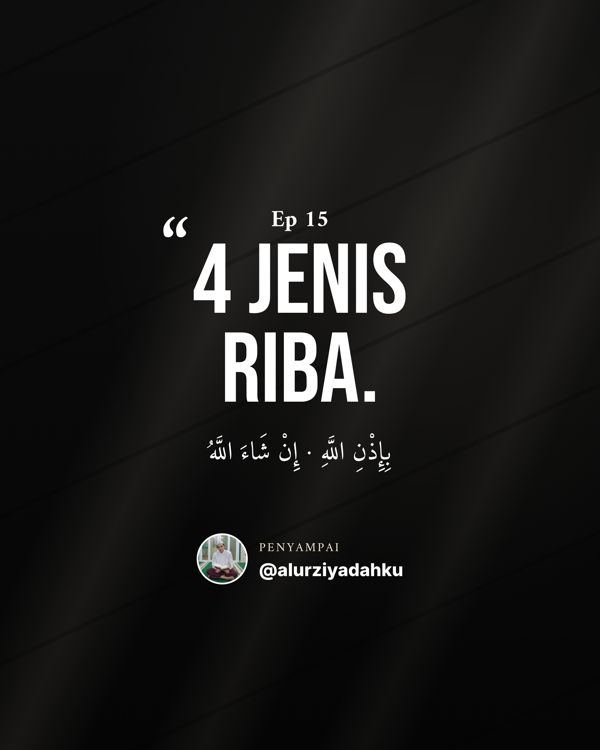
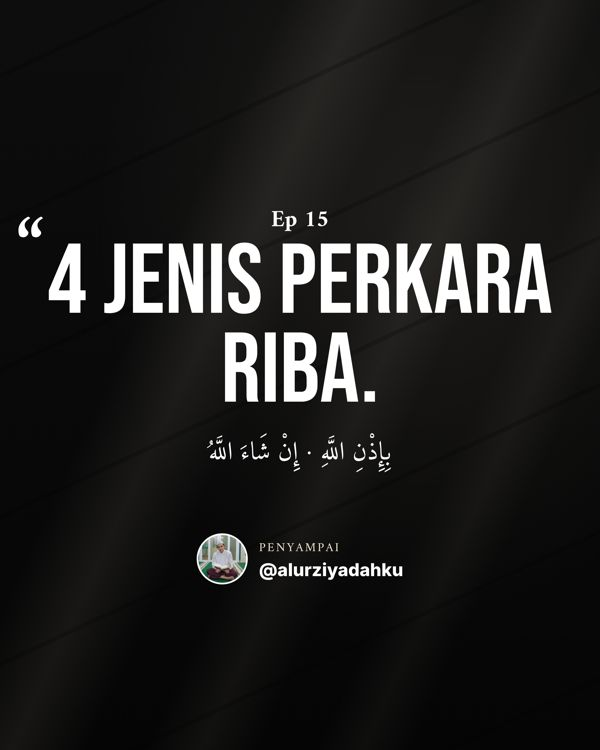
Ep15: judul jadi "4 Jenis Perkara Riba" (cover, post IG, caption v2, katalog)
Claude-Session: https://claude.ai/code/session_01WaGvaQ8AToXUR11At2caAy

Changed region(s): [[0.06, 0.276, 0.93, 0.4293], [0.03, 0.276, 0.09, 0.3373]]

diff --git a/katalog/index.html b/katalog/index.html
@@ -116,7 +116,7 @@ a.alt{color:var(--y);font:700 13px var(--mono);text-decoration:underline;text-un
 <div class="toast" id="toast" hidden>Tersalin ✓</div>
 
 <script>
-const EP = [{"no": 1, "topik": "Hurmatul Qur'an", "ar": "حُرْمَةُ الْقُرْآنِ", "judul": "Kehormatan Al-Qur'an | Sebaik-baik Kalian yang Belajar & Mengajarkan Al-Qur'an | Mengenal Al-Qur'an Ep1", "caption": "Kehormatan Al-Qur'an · Hurmatul Qur'an 📖✨\nSeberapa mulia Al-Qur'an di mata kita? Ini dalilnya… 👇\n\n✅ Sebaik-baik kalian: yang belajar & mengajarkan Al-Qur'an (HR. al-Bukhari 5027)\n✅ Al-Qur'an adalah jamuan Allah (Ibnu Mas'ud)\n✅ Mulut kita adalah jalan Al-Qur'an (atsar Yazid bin Abi Malik)\n✅ Kehormatan & adab terhadap Al-Qur'an (Tafsir al-Qurthubi)\n\nSemoga Allah jadikan kita ahli Al-Qur'an. Ketik AAMIIN 🤲\n💾 Simpan & 📤 bagikan ke keluarga.\n🔔 Follow @alurziyadahku untuk seri Mengenal Al-Qur'an.\n\n#fyp #islam #kajianislam #dakwahislam #mengenalalquran", "tags": "", "draft": true, "yt": "img/ep01_yt.jpg", "reel": "img/ep01_reel.jpg", "ig": "img/ep01_ig.jpg"}, {"no": 2, "topik": "16 Adab Al-Qur'an", "ar": "حُرْمَةُ الْقُرْآنِ", "judul": "16 Adab Membaca Al-Qur'an yang Sering Dilanggar Tanpa Kita Sadari | Hurmatul Qur'an #2", "caption": "Kamu pernah baca Al-Qur'an sambil menguap? Atau sambil ngobrol? 😶\n\nTernyata para ulama menyebutkan 16 KEHORMATAN Al-Qur'an yang harus kita jaga. Banyak di antaranya kita langgar tanpa sadar.\n\n✔ menghadap kiblat\n✔ berhenti saat menguap\n✔ tidak memotong bacaan untuk bercakap\n✔ mushaf tidak diletakkan di lantai\n✔ tidak menafsir dengan pendapat sendiri\n…dan 11 lainnya di video lengkap 🎥\n\n📚 Rujukan: Muqaddimah Tafsir Al-Qurthubi\n\nNomor berapa yang paling sering kamu lupa? Tulis di komentar 👇\nSimpan & kirim ke orang yang kamu sayangi 🤍\n\n#HurmatulQuran #AdabAlQuran #AlQuran #KajianIslam #BelajarAlQuran #TadabburQuran #NgajiOnline #DakwahIslam #IlmuAgama #TafsirQuran #MuslimIndonesia #MuslimMalaysia #ReelsIslami #FYP #Islam", "tags": "", "draft": false, "yt": "img/ep02_yt.jpg", "reel": "img/ep02_reel.jpg", "ig": "img/ep02_ig.jpg", "video": "https://github.com/oligarchy-pixel/Al-Qur-an/raw/arsip-video/Ep02.mp4", "videoPage": "https://github.com/oligarchy-pixel/Al-Qur-an/blob/arsip-video/Ep02.mp4", "mb": 90}, {"no": 3, "topik": "Turunnya Al-Qur'an", "ar": "نُزُولُ الْقُرْآنِ", "judul": "Turunnya Al-Qur'an: dari Lauh Mahfuzh sampai Mushaf di Tanganmu", "caption": "Al-Qur'an yang kita baca hari ini dulunya tidak bertitik dan tidak berbaris. 😳\n\nDi zaman Rasulullah ﷺ, Al-Qur'an belum dibukukan. Ia tersimpan di dada para sahabat, ditulis di batu, daun, dan kulit unta.\n\nLalu bagaimana bisa sampai di tangan kita dalam bentuk mushaf yang rapi?\n\n📜 Turun sekaligus di malam Lailatul Qadr\n📜 Diturunkan bertahap ± 23 tahun\n📜 Dihimpun oleh Zaid bin Tsabit\n📜 Disusun di masa Khalifah 'Utsman bin 'Affan\n📜 Diberi titik & baris di masa Khalifah 'Abdul Malik bin Marwan\n📜 Dan rahasia kenapa Al-Fatihah disebut *Ummul Qur'an*\n\nTonton sampai habis. Bagian terakhirnya akan membuatmu membaca Al-Fatihah dengan rasa yang berbeda. 🤍\n\nTulis di komentar: sudah berapa kali kamu khatam Al-Qur'an? 👇\nBagikan ke satu orang yang kamu sayang, semoga jadi pahala jariyah.\n\n#AlQuran #SejarahIslam #NuzululQuran #KajianIslam #FaktaIslam", "tags": "", "draft": false, "yt": "img/ep03_yt.jpg", "reel": "img/ep03_reel.jpg", "ig": "img/ep03_ig.jpg", "video": "https://github.com/oligarchy-pixel/Al-Qur-an/raw/arsip-video/Ep03.mp4", "videoPage": "https://github.com/oligarchy-pixel/Al-Qur-an/blob/arsip-video/Ep03.mp4", "mb": 84}, {"no": 4, "topik": "Rahasia Bismillah", "ar": "بِسْمِ اللَّهِ", "judul": "Bismillah Dibaca Nyaring atau Pelan? Ternyata 4 Mazhab Berbeda!", "caption": "Pernah salat di belakang imam yang tidak membaca Bismillah dengan nyaring? 🤔\nJangan langsung menyalahkan. Ternyata 4 mazhab punya pendapat yang berbeda. 👇\n\n📌 Imam asy-Syafi'i: Bismillah ayat Al-Fatihah, dibaca nyaring\n📌 Imam Malik: tidak dibaca dalam salat\n📌 Imam Abu Hanifah: dibaca pelan\n📌 Imam Ahmad: ayat Al-Fatihah, tapi dibaca pelan\n\nDan ternyata Al-Fatihah punya 156 huruf. Kurang sehuruf saja, bacaannya tidak sah. 😳\n\nTonton sampai habis. Di akhir video ada keutamaan Bismillah yang membuatmu tidak akan lupa membacanya lagi. 🤍\n\n💬 Kamu ikut mazhab apa? Tulis di komentar\n🔁 Bagikan ke teman yang sering lupa baca Bismillah\n\n#Bismillah #AlFatihah #FiqihSalat #KajianIslam #FaktaIslam", "tags": "", "draft": false, "yt": "img/ep04_yt.jpg", "reel": "img/ep04_reel.jpg", "ig": "img/ep04_ig.jpg", "video": "https://github.com/oligarchy-pixel/Al-Qur-an/raw/arsip-video/Ep04.mp4", "videoPage": "https://github.com/oligarchy-pixel/Al-Qur-an/blob/arsip-video/Ep04.mp4", "mb": 81}, {"no": 5, "topik": "Hukum Bismillah", "ar": "بِسْمِ اللَّهِ", "judul": "Baca Bismillah Bisa HARAM?! Ini 4 Hukumnya & Doa yang Benar di 5 Keadaan", "caption": "Ternyata membaca Bismillah bisa HARAM?! 😳\n\nTidak semua hal baik dimulai dengan \"Bismillahirrahmanirrahim\" lengkap. Ada lafaz dan doa khusus untuk setiap keadaan 👇\n\n✅ Wajib: dalam salat, saat membaca Al-Fatihah\n✅ Sunah: wudu, mandi, makan, minum\n⚠ Makruh: pada perkara yang tidak mulia\n❌ Haram: sebelum berbuat dosa, malah menambah dosa\n\n🚽 Masuk jamban • 💑 Suami istri • 🚗 Naik kendaraan • 🛏 Tidur • 👕 Memakai pakaian\nSetiap keadaan punya doa bismillahnya sendiri. Tonton sampai habis!\n\n💬 Doa mana yang baru kamu tahu? Tulis di komentar\n🔁 Bagikan, semoga jadi pahala jariyah 🤍\n\n#Bismillah #DoaHarian #HukumIslam #KajianIslam #FaktaIslam", "tags": "", "draft": false, "yt": "img/ep05_yt.jpg", "reel": "img/ep05_reel.jpg", "ig": "img/ep05_ig.jpg", "video": "https://github.com/oligarchy-pixel/Al-Qur-an/raw/arsip-video/Ep05.mp4", "videoPage": "https://github.com/oligarchy-pixel/Al-Qur-an/blob/arsip-video/Ep05.mp4", "mb": 56}, {"no": 6, "topik": "Makna Bismillah", "ar": "مَعَانِي الْبَسْمَلَةِ", "judul": "Kenapa \"BISMILLAH\", Bukan \"BILLAH\"? Ternyata Ini Rahasianya", "caption": "Setiap hari kamu ucap Bismillah…\ntapi tahukah kenapa \"dengan NAMA Allah\", bukan langsung \"dengan Allah\"? 🤔\n\nTernyata ada 6 makna tersembunyi di dalamnya.\nDan 19 hurufnya disebut melindungi dari 19 Malaikat penjaga neraka. 😳\n\nTonton sampai habis, kamu tidak akan mengucap Bismillah dengan cara yang sama lagi. 🤍\n\n💬 Tulis \"Bismillah\" di komentar\n🔁 Bagikan, semoga jadi pahala jariyah\n\n#Bismillah #MaknaBismillah #KajianIslam #FaktaIslam #MengenalAlQuran", "tags": "", "draft": false, "yt": "img/ep06_yt.jpg", "reel": "img/ep06_reel.jpg", "ig": "img/ep06_ig.jpg", "video": "https://github.com/oligarchy-pixel/Al-Qur-an/raw/arsip-video/Ep06.mp4", "videoPage": "https://github.com/oligarchy-pixel/Al-Qur-an/blob/arsip-video/Ep06.mp4", "mb": 69}, {"no": 7, "topik": "Rahasia Hamdalah", "ar": "الْحَمْدُ لِلَّهِ", "judul": "Ucapan Alhamdulillah Bisa HARAM?! Ternyata Ada Aturannya", "caption": "Hati-hati mengucap Alhamdulillah… ternyata bisa jadi DOSA. 😳\n\nAda ulama yang beristighfar 30 tahun hanya karena satu ucapan \"Alhamdulillah\" saat pasar terbakar.\n\nDan tahukah kamu: Alhamdulillah ada 8 huruf, pintu surga pun ada 8. 🤍\n\nTonton sampai habis, kamu akan mengucap Alhamdulillah dengan cara yang berbeda.\n\n💬 Tulis \"Alhamdulillah ala kulli hal\" di komentar\n🔁 Bagikan, semoga jadi pahala jariyah\n\n#Alhamdulillah #DoaHarian #KajianIslam #FaktaIslam #MengenalAlQuran", "tags": "", "draft": false, "yt": "img/ep07_yt.jpg", "reel": "img/ep07_reel.jpg", "ig": "img/ep07_ig.jpg", "video": "https://github.com/oligarchy-pixel/Al-Qur-an/raw/arsip-video/Ep07.mp4", "videoPage": "https://github.com/oligarchy-pixel/Al-Qur-an/blob/arsip-video/Ep07.mp4", "mb": 76}, {"no": 8, "topik": "Rahasia Ar-Rahman", "ar": "الرَّحْمَٰنِ الرَّحِيمِ", "judul": "Ar-Rahman Ar-Rahim Bukan Sekadar \"Pengasih Penyayang\"! Ini Makna Aslinya", "caption": "Kamu pikir Allah hanya Maha Pengasih? Hati-hati… bisa tertipu. 😳\n\nSetelah \"Ar-Rahman Ar-Rahim\", Allah langsung menyebut \"Maliki yaumiddin\", Pemilik hari pembalasan.\nHarap dan takut harus seimbang. 🤍\n\nPlus: 4 kunci supaya ibadahmu sah, diterima, dan tidak gugur.\nTonton sampai habis!\n\n💬 Tulis \"Ya Rahman Ya Rahim\" di komentar\n🔁 Bagikan, semoga jadi pahala jariyah\n\n#ArRahmanArRahim #AlFatihah #KajianIslam #FaktaIslam #MengenalAlQuran", "tags": "", "draft": false, "yt": "img/ep08_yt.jpg", "reel": "img/ep08_reel.jpg", "ig": "img/ep08_ig.jpg", "video": "https://github.com/oligarchy-pixel/Al-Qur-an/raw/arsip-video/Ep08.mp4", "videoPage": "https://github.com/oligarchy-pixel/Al-Qur-an/blob/arsip-video/Ep08.mp4", "mb": 58}, {"no": 9, "topik": "Perbanyaklah Bertaubat", "ar": "التَّوْبَةُ", "judul": "Ayam Sudah Berkokok, Engkau Masih Tidur? | Rahasia Waktu Sahur untuk Bertaubat — Mengenal Al-Qur'an Ep.9", "caption": "Ayam jantan berkokok di waktu sahur… karena ia melihat malaikat.\nLalu kita? Masih terlelap. 😴\n\nAllah memuji orang-orang yang beristighfar di waktu sahur:\nوَبِالْأَسْحَارِ هُمْ يَسْتَغْفِرُونَ (QS. Adz-Dzariyat: 18)\n\nDi episode 9 ini kita bedah:\n🌙 Tahajjud: tak harus ratusan rakaat, dua rakaat pun sudah cukup\n🕰 Kenapa waktu sahur jadi waktu terbaik untuk bertaubat\n🐓 Hadis ayam berkokok (Bukhari 3303 · Muslim 2729)\n🌬 \"Angin sahur\" yang membawa zikir & istighfar (Sufyan ats-Tsauri)\n⚖ Mengaku cinta Allah, tapi mana buktinya?\n📜 Ibadah harus sesuai aturan syarak: mulailah dari dirimu sendiri\n\nSemua sumber kami tunjukkan langsung di layar: kitab, jilid, halaman, dan derajat hadisnya.\n\nMalam ini, coba bangun sebelum Subuh. Dua rakaat. Satu istighfar. Allah sedang memanggil.\n\n💬 Tulis \"أَسْتَغْفِرُ اللَّهَ\" di kolom komentar kalau kamu mau mulai malam ini.\n🔁 Bagikan ke satu orang yang ingin kamu ajak bertaubat bersama.\n🔔 Subscribe & follow @alurziyadahku untuk seri Mengenal Al-Qur'an berikutnya.\n\n#taubat #istighfar #tahajjud #kajianislam #mengenalalquran", "tags": "", "draft": false, "yt": "img/ep09_yt.jpg", "reel": "img/ep09_reel.jpg", "ig": "img/ep09_ig.jpg", "video": "https://github.com/oligarchy-pixel/Al-Qur-an/raw/arsip-video/Ep09.mp4", "videoPage": "https://github.com/oligarchy-pixel/Al-Qur-an/blob/arsip-video/Ep09.mp4", "mb": 64}, {"no": 10, "topik": "Minta Pertolongan", "ar": "إِيَّاكَ نَسْتَعِينُ", "judul": "Semangat Ibadah Cuma di Awal? Ini Penyebabnya | إِيَّاكَ نَسْتَعِينُ — Mengenal Al-Qur'an Ep.10", "caption": "Pernah semangat salat malam 3 hari… lalu berhenti? 😔\nPernah niat khatam Al-Qur'an… tapi cuma sampai juz 2?\n\nBukan karena kamu lemah. Ibadah itu memang sulit dan rumit, dan kita tidak akan sanggup tanpa pertolongan Allah.\n\nإِيَّاكَ نَعْبُدُ وَإِيَّاكَ نَسْتَعِينُ\n\"Hanya kepada-Mu kami menyembah, dan hanya kepada-Mu kami memohon pertolongan.\"\n\nDi video ini:\n📚 Ibadah sah dengan ilmu, dan ilmu didapat dengan doa + belajar yang beradab\n🤲 Mau ibadah diterima? Bertaubat dulu sebelum beribadah\n💧 Amal yang paling dicintai Allah: yang rutin walau sedikit (HR. Bukhari & Muslim)\n🏪 Azan berkumandang: tutup toko, atau terus melayani pembeli?\n🔥 Akan datang masa dunia \"memakan\" iman\n🛤 4 jalan agar istiqamah sampai akhir hayat\n\nPilih yang abadi. Tinggalkan yang fana.\n\n👇 Jujur di komentar: ibadah apa yang paling sulit kamu jaga rutin?\n💬 Atau tulis \"إِيَّاكَ نَسْتَعِينُ\" sebagai doa agar kita semua diberi istiqamah.\n🔁 Kirim ke 1 sahabat yang sedang berjuang menjaga ibadahnya. Bisa jadi ini yang dia butuhkan hari ini.\n🔔 Follow @alurziyadahku. Seri Mengenal Al-Qur'an berlanjut setiap episode.\n\n#istiqamah #alfatihah #kajianislam #nasihatislami #mengenalalquran", "tags": "", "draft": false, "yt": "img/ep10_yt.jpg", "reel": "img/ep10_reel.jpg", "ig": "img/ep10_ig.jpg", "video": "https://github.com/oligarchy-pixel/Al-Qur-an/raw/arsip-video/Ep10.mp4", "videoPage": "https://github.com/oligarchy-pixel/Al-Qur-an/blob/arsip-video/Ep10.mp4", "mb": 66}, {"no": 11, "topik": "Musuh di Dalam Diri", "ar": "النَّفْسُ", "judul": "Musuh Paling Berbahaya Bukan di Luar, Tapi di Dalam Dirimu | Mengenal Al-Qur'an Ep.11", "caption": "Kita sibuk waspada pada orang yang dengki, orang yang membenci, bahkan pada syaitan…\ntapi lupa ada satu musuh yang tinggal di dalam dada kita sendiri. 😔\n\nSyaitan mundur saat dibacakan zikir.\nNafsu? Ia bagian dari dirimu, dan tidak semudah itu diusir.\n\nDi episode 11 ini kita bedah:\n🔥 Kenapa nafsu disebut musuh yang paling sulit dididik & diobati\n🎁 14 nikmat Allah yang sering kita lupakan\n⚔ Melatih nafsu seperti prajurit bersiap perang\n🖐 5 kesulitan orang beriman: pendengki, munafik, kafir, syaitan, dan nafsu\n👁 Mata cinta vs mata benci: kenapa kita buta pada aib sendiri\n⚠ Jebakan setelah taubat: merasa lebih baik dari orang lain\n\nMelawan nafsu adalah jihad yang paling besar.\nإِيَّاكَ نَعْبُدُ وَإِيَّاكَ نَسْتَعِينُ\n\n👇 Jujur di komentar: nafsu apa yang paling sulit kamu lawan?\n🔁 Kirim ke 1 sahabat yang sedang berjuang memperbaiki diri.\n🔔 Follow @alurziyadahku. Seri Mengenal Al-Qur'an berlanjut setiap episode.\n\n#melawannafsu #tazkiyatunnafs #kajianislam #nasihatislami #mengenalalquran", "tags": "", "draft": false, "yt": "img/ep11_yt.jpg", "reel": "img/ep11_reel.jpg", "ig": "img/ep11_ig.jpg", "video": "https://github.com/oligarchy-pixel/Al-Qur-an/raw/arsip-video/Ep11.mp4", "videoPage": "https://github.com/oligarchy-pixel/Al-Qur-an/blob/arsip-video/Ep11.mp4", "mb": 74}, {"no": 12, "topik": "Minta yang Pasti Baik", "ar": "اهْدِنَا الصِّرَاطَ", "judul": "Jangan Asal Minta Rezeki & Jabatan! Ini Doa yang Pasti Baik | اهْدِنَا الصِّرَاطَ الْمُسْتَقِيمَ — Mengenal Al-Qur'an Ep.12", "caption": "Pernah berdoa minta rezeki lancar, jabatan, jodoh, atau anak…\ntapi pernahkah kita bertanya: apakah itu pasti baik untuk kita? 🤔\n\nAllah sendiri mengajarkan permintaan yang paling utama:\nاهْدِنَا الصِّرَاطَ الْمُسْتَقِيمَ\n\"Tunjukilah kami jalan yang lurus.\"\n\nDi episode 12 ini kita bedah:\n🛣 Kenapa jalan yang lurus adalah permintaan nomor satu\n💰 Harta melimpah yang justru membuat lupa Allah\n🗳 Doa minta menang pemilihan, sehat, jodoh & anak: pakai kunci إِنْ كَانَ خَيْرًا لِي\n💧 Ilmu kita setetes dibanding ilmu Allah\n🔢 73 golongan, hanya satu yang di jalan lurus (HR. Abu Dawud, at-Tirmidzi, Ibnu Majah)\n🫀 Doa dari hati yang lalai tidak dikabulkan (HR. at-Tirmidzi)\n🤲 Ibadah dulu, baru berdoa (QS. Al-Baqarah 186)\n\nMintalah yang pasti baik. Yang belum pasti, serahkan dengan syarat: \"jika itu baik untukku\".\n\n👇 Jujur di komentar: doa apa yang paling sering kamu minta selama ini?\n🔁 Kirim ke 1 sahabat yang sedang menunggu doanya dikabulkan.\n🔔 Follow @alurziyadahku. Seri Mengenal Al-Qur'an berlanjut setiap episode.\n\n#adabberdoa #alfatihah #kajianislam #nasihatislami #mengenalalquran", "tags": "", "draft": false, "yt": "img/ep12_yt.jpg", "reel": "img/ep12_reel.jpg", "ig": "img/ep12_ig.jpg", "video": "https://github.com/oligarchy-pixel/Al-Qur-an/raw/arsip-video/Ep12.mp4", "videoPage": "https://github.com/oligarchy-pixel/Al-Qur-an/blob/arsip-video/Ep12.mp4", "mb": 74}, {"no": 13, "topik": "Rahasia Sapi Betina", "ar": "سُورَةُ الْبَقَرَةِ", "judul": "Kisah Sapi Betina Nabi Musa & Keutamaan Surah Al-Baqarah | Arti Alif Lam Mim | Tafsir Al-Baqarah Ayat 1-2", "caption": "Kisah sapi betina Nabi Musa & keutamaan Surah Al-Baqarah 🐄📖\nKenapa surah terpanjang di Al-Qur'an dinamai \"sapi betina\"? Ternyata ada kisah mayat yang hidup kembali dan menyebut pembunuhnya…\n\nDi video ini:\n✅ Keutamaan Surah Al-Baqarah: rumah tidak dimasuki syaitan (HR. at-Tirmidzi 2877)\n✅ Kisah Bani Israil & sapi kuning di zaman Nabi Musa\n✅ Arti Alif Lam Mim menurut ulama\n✅ Tafsir Al-Baqarah ayat 1-2: ذَٰلِكَ الْكِتَابُ لَا رَيْبَ فِيهِ\n✅ Bukti Al-Qur'an dari Allah: tantangan & ramalan Romawi\n\n💬 Tulis \"AAMIIN\" agar rumah kita dijaga Allah\n📌 Simpan & bagikan ke keluarga\n\n#fyp #islam #kajianislam #kisahislami #mengenalalquran", "tags": "surah al baqarah, keutamaan surah al baqarah, kisah sapi betina, kisah nabi musa, arti alif lam mim, tafsir al baqarah ayat 1-2, kajian islam, ngaji online", "draft": false, "yt": "img/ep13_yt.jpg", "reel": "img/ep13_reel.jpg", "ig": "img/ep13_ig.jpg", "video": "https://github.com/oligarchy-pixel/Al-Qur-an/raw/arsip-video/Ep13.mp4", "videoPage": "https://github.com/oligarchy-pixel/Al-Qur-an/blob/arsip-video/Ep13.mp4", "mb": 74}, {"no": 14, "topik": "Petunjuk Takwa Sehari-hari", "ar": "هُدًى لِلْمُتَّقِينَ", "judul": "Hukum Cukur Alis dalam Islam | Adab Makan, Pakaian & Memilih Jodoh Menurut Al-Qur'an | Mengenal Al-Qur'an Ep14", "caption": "Hukum cukur alis, makan berlebihan & memilih jodoh menurut Al-Qur'an 📖✨\nTernyata Al-Qur'an mengatur hidupmu dari piring makan sampai rumah tangga… sudah tahu? 👇\n\n✅ Makan & minum boleh, tapi jangan melampaui batas (QS. Al-A'raf: 31)\n✅ Jilbab = kain yang menutupi seluruh tubuh (QS. Al-Ahzab: 59)\n✅ Berhias boleh, asal tidak mengubah ciptaan Allah (QS. An-Nisa: 119 · HR. Bukhari & Muslim)\n✅ Pilih pasangan: IMAN dulu, baru yang lain (QS. Al-Baqarah: 221)\n✅ Hak suami & istri, dan cara bertahap menghadapi nusyuz (QS. Al-Baqarah: 228 · An-Nisa: 34)\n\nSemoga Allah jadikan kita golongan muttaqin. Ketik AAMIIN 🤲\n💾 Simpan video ini & 📤 bagikan ke pasangan / calon pasanganmu.\n🔔 Follow @alurziyadahku untuk episode berikutnya.\n\n#fyp #islam #kajianislam #dakwahislam #mengenalalquran", "tags": "hukum cukur alis, makan berlebihan dalam islam, adab berpakaian muslimah, memilih jodoh dalam islam, hak suami istri, nusyuz, tafsir al-quran, kajian islam", "draft": false, "yt": "img/ep14_yt.jpg", "reel": "img/ep14_reel.jpg", "ig": "img/ep14_ig.jpg", "video": "https://github.com/oligarchy-pixel/Al-Qur-an/raw/arsip-video/Ep14.mp4", "videoPage": "https://github.com/oligarchy-pixel/Al-Qur-an/blob/arsip-video/Ep14.mp4", "mb": 71}, {"no": 15, "topik": "4 Jenis Riba", "ar": "وَحَرَّمَ الرِّبَا", "judul": "4 Jenis Riba dalam Islam & Contohnya | Hukum Khulu' Istri Minta Cerai | Adab Bermasyarakat Menurut Al-Qur'an | Mengenal Al-Qur'an Ep15", "caption": "4 jenis riba dalam Islam & hukum istri minta cerai (khulu') 💸📖\nTukar beras 10 kg dengan 8 kg ternyata termasuk RIBA… sudah tahu? 👇\n\n✅ Istri nusyuz: suami bertahap, nasihat → pisah tidur → isyarat → solusi (QS. An-Nisa: 34)\n✅ Suami bermasalah: istri boleh mengajukan khulu' ke hakim, mahar dikembalikan\n✅ Minta cerai tanpa alasan → haram mencium bau surga (HR. Abu Dawud dari Tsauban)\n✅ Jangan mengolok-olok, buruk sangka & ghibah (QS. Al-Hujurat: 11–12)\n✅ Allah halalkan jual beli, haramkan riba (QS. Al-Baqarah: 275–276)\n✅ 4 jenis riba: fadl, nasa', yad, qardh + contohnya\n\nSemoga Allah jauhkan rezeki kita dari riba. Ketik AAMIIN 🤲\n💾 Simpan video ini & 📤 bagikan ke keluarga dan rekan usaha.\n🔔 Follow @alurziyadahku untuk episode berikutnya.\n\n#fyp #islam #kajianislam #dakwahislam #mengenalalquran", "tags": "jenis jenis riba, riba dalam islam, contoh riba, hukum khulu, istri minta cerai, nusyuz, adab bermasyarakat, kajian islam", "draft": false, "yt": "img/ep15_yt.jpg", "reel": "img/ep15_reel.jpg", "ig": "img/ep15_ig.jpg", "video": "https://github.com/oligarchy-pixel/Al-Qur-an/raw/arsip-video/Ep15.mp4", "videoPage": "https://github.com/oligarchy-pixel/Al-Qur-an/blob/arsip-video/Ep15.mp4", "mb": 76}];
+const EP = [{"no": 1, "topik": "Hurmatul Qur'an", "ar": "حُرْمَةُ الْقُرْآنِ", "judul": "Kehormatan Al-Qur'an | Sebaik-baik Kalian yang Belajar & Mengajarkan Al-Qur'an | Mengenal Al-Qur'an Ep1", "caption": "Kehormatan Al-Qur'an · Hurmatul Qur'an 📖✨\nSeberapa mulia Al-Qur'an di mata kita? Ini dalilnya… 👇\n\n✅ Sebaik-baik kalian: yang belajar & mengajarkan Al-Qur'an (HR. al-Bukhari 5027)\n✅ Al-Qur'an adalah jamuan Allah (Ibnu Mas'ud)\n✅ Mulut kita adalah jalan Al-Qur'an (atsar Yazid bin Abi Malik)\n✅ Kehormatan & adab terhadap Al-Qur'an (Tafsir al-Qurthubi)\n\nSemoga Allah jadikan kita ahli Al-Qur'an. Ketik AAMIIN 🤲\n💾 Simpan & 📤 bagikan ke keluarga.\n🔔 Follow @alurziyadahku untuk seri Mengenal Al-Qur'an.\n\n#fyp #islam #kajianislam #dakwahislam #mengenalalquran", "tags": "", "draft": true, "yt": "img/ep01_yt.jpg", "reel": "img/ep01_reel.jpg", "ig": "img/ep01_ig.jpg"}, {"no": 2, "topik": "16 Adab Al-Qur'an", "ar": "حُرْمَةُ الْقُرْآنِ", "judul": "16 Adab Membaca Al-Qur'an yang Sering Dilanggar Tanpa Kita Sadari | Hurmatul Qur'an #2", "caption": "Kamu pernah baca Al-Qur'an sambil menguap? Atau sambil ngobrol? 😶\n\nTernyata para ulama menyebutkan 16 KEHORMATAN Al-Qur'an yang harus kita jaga. Banyak di antaranya kita langgar tanpa sadar.\n\n✔ menghadap kiblat\n✔ berhenti saat menguap\n✔ tidak memotong bacaan untuk bercakap\n✔ mushaf tidak diletakkan di lantai\n✔ tidak menafsir dengan pendapat sendiri\n…dan 11 lainnya di video lengkap 🎥\n\n📚 Rujukan: Muqaddimah Tafsir Al-Qurthubi\n\nNomor berapa yang paling sering kamu lupa? Tulis di komentar 👇\nSimpan & kirim ke orang yang kamu sayangi 🤍\n\n#HurmatulQuran #AdabAlQuran #AlQuran #KajianIslam #BelajarAlQuran #TadabburQuran #NgajiOnline #DakwahIslam #IlmuAgama #TafsirQuran #MuslimIndonesia #MuslimMalaysia #ReelsIslami #FYP #Islam", "tags": "", "draft": false, "yt": "img/ep02_yt.jpg", "reel": "img/ep02_reel.jpg", "ig": "img/ep02_ig.jpg", "video": "https://github.com/oligarchy-pixel/Al-Qur-an/raw/arsip-video/Ep02.mp4", "videoPage": "https://github.com/oligarchy-pixel/Al-Qur-an/blob/arsip-video/Ep02.mp4", "mb": 90}, {"no": 3, "topik": "Turunnya Al-Qur'an", "ar": "نُزُولُ الْقُرْآنِ", "judul": "Turunnya Al-Qur'an: dari Lauh Mahfuzh sampai Mushaf di Tanganmu", "caption": "Al-Qur'an yang kita baca hari ini dulunya tidak bertitik dan tidak berbaris. 😳\n\nDi zaman Rasulullah ﷺ, Al-Qur'an belum dibukukan. Ia tersimpan di dada para sahabat, ditulis di batu, daun, dan kulit unta.\n\nLalu bagaimana bisa sampai di tangan kita dalam bentuk mushaf yang rapi?\n\n📜 Turun sekaligus di malam Lailatul Qadr\n📜 Diturunkan bertahap ± 23 tahun\n📜 Dihimpun oleh Zaid bin Tsabit\n📜 Disusun di masa Khalifah 'Utsman bin 'Affan\n📜 Diberi titik & baris di masa Khalifah 'Abdul Malik bin Marwan\n📜 Dan rahasia kenapa Al-Fatihah disebut *Ummul Qur'an*\n\nTonton sampai habis. Bagian terakhirnya akan membuatmu membaca Al-Fatihah dengan rasa yang berbeda. 🤍\n\nTulis di komentar: sudah berapa kali kamu khatam Al-Qur'an? 👇\nBagikan ke satu orang yang kamu sayang, semoga jadi pahala jariyah.\n\n#AlQuran #SejarahIslam #NuzululQuran #KajianIslam #FaktaIslam", "tags": "", "draft": false, "yt": "img/ep03_yt.jpg", "reel": "img/ep03_reel.jpg", "ig": "img/ep03_ig.jpg", "video": "https://github.com/oligarchy-pixel/Al-Qur-an/raw/arsip-video/Ep03.mp4", "videoPage": "https://github.com/oligarchy-pixel/Al-Qur-an/blob/arsip-video/Ep03.mp4", "mb": 84}, {"no": 4, "topik": "Rahasia Bismillah", "ar": "بِسْمِ اللَّهِ", "judul": "Bismillah Dibaca Nyaring atau Pelan? Ternyata 4 Mazhab Berbeda!", "caption": "Pernah salat di belakang imam yang tidak membaca Bismillah dengan nyaring? 🤔\nJangan langsung menyalahkan. Ternyata 4 mazhab punya pendapat yang berbeda. 👇\n\n📌 Imam asy-Syafi'i: Bismillah ayat Al-Fatihah, dibaca nyaring\n📌 Imam Malik: tidak dibaca dalam salat\n📌 Imam Abu Hanifah: dibaca pelan\n📌 Imam Ahmad: ayat Al-Fatihah, tapi dibaca pelan\n\nDan ternyata Al-Fatihah punya 156 huruf. Kurang sehuruf saja, bacaannya tidak sah. 😳\n\nTonton sampai habis. Di akhir video ada keutamaan Bismillah yang membuatmu tidak akan lupa membacanya lagi. 🤍\n\n💬 Kamu ikut mazhab apa? Tulis di komentar\n🔁 Bagikan ke teman yang sering lupa baca Bismillah\n\n#Bismillah #AlFatihah #FiqihSalat #KajianIslam #FaktaIslam", "tags": "", "draft": false, "yt": "img/ep04_yt.jpg", "reel": "img/ep04_reel.jpg", "ig": "img/ep04_ig.jpg", "video": "https://github.com/oligarchy-pixel/Al-Qur-an/raw/arsip-video/Ep04.mp4", "videoPage": "https://github.com/oligarchy-pixel/Al-Qur-an/blob/arsip-video/Ep04.mp4", "mb": 81}, {"no": 5, "topik": "Hukum Bismillah", "ar": "بِسْمِ اللَّهِ", "judul": "Baca Bismillah Bisa HARAM?! Ini 4 Hukumnya & Doa yang Benar di 5 Keadaan", "caption": "Ternyata membaca Bismillah bisa HARAM?! 😳\n\nTidak semua hal baik dimulai dengan \"Bismillahirrahmanirrahim\" lengkap. Ada lafaz dan doa khusus untuk setiap keadaan 👇\n\n✅ Wajib: dalam salat, saat membaca Al-Fatihah\n✅ Sunah: wudu, mandi, makan, minum\n⚠ Makruh: pada perkara yang tidak mulia\n❌ Haram: sebelum berbuat dosa, malah menambah dosa\n\n🚽 Masuk jamban • 💑 Suami istri • 🚗 Naik kendaraan • 🛏 Tidur • 👕 Memakai pakaian\nSetiap keadaan punya doa bismillahnya sendiri. Tonton sampai habis!\n\n💬 Doa mana yang baru kamu tahu? Tulis di komentar\n🔁 Bagikan, semoga jadi pahala jariyah 🤍\n\n#Bismillah #DoaHarian #HukumIslam #KajianIslam #FaktaIslam", "tags": "", "draft": false, "yt": "img/ep05_yt.jpg", "reel": "img/ep05_reel.jpg", "ig": "img/ep05_ig.jpg", "video": "https://github.com/oligarchy-pixel/Al-Qur-an/raw/arsip-video/Ep05.mp4", "videoPage": "https://github.com/oligarchy-pixel/Al-Qur-an/blob/arsip-video/Ep05.mp4", "mb": 56}, {"no": 6, "topik": "Makna Bismillah", "ar": "مَعَانِي الْبَسْمَلَةِ", "judul": "Kenapa \"BISMILLAH\", Bukan \"BILLAH\"? Ternyata Ini Rahasianya", "caption": "Setiap hari kamu ucap Bismillah…\ntapi tahukah kenapa \"dengan NAMA Allah\", bukan langsung \"dengan Allah\"? 🤔\n\nTernyata ada 6 makna tersembunyi di dalamnya.\nDan 19 hurufnya disebut melindungi dari 19 Malaikat penjaga neraka. 😳\n\nTonton sampai habis, kamu tidak akan mengucap Bismillah dengan cara yang sama lagi. 🤍\n\n💬 Tulis \"Bismillah\" di komentar\n🔁 Bagikan, semoga jadi pahala jariyah\n\n#Bismillah #MaknaBismillah #KajianIslam #FaktaIslam #MengenalAlQuran", "tags": "", "draft": false, "yt": "img/ep06_yt.jpg", "reel": "img/ep06_reel.jpg", "ig": "img/ep06_ig.jpg", "video": "https://github.com/oligarchy-pixel/Al-Qur-an/raw/arsip-video/Ep06.mp4", "videoPage": "https://github.com/oligarchy-pixel/Al-Qur-an/blob/arsip-video/Ep06.mp4", "mb": 69}, {"no": 7, "topik": "Rahasia Hamdalah", "ar": "الْحَمْدُ لِلَّهِ", "judul": "Ucapan Alhamdulillah Bisa HARAM?! Ternyata Ada Aturannya", "caption": "Hati-hati mengucap Alhamdulillah… ternyata bisa jadi DOSA. 😳\n\nAda ulama yang beristighfar 30 tahun hanya karena satu ucapan \"Alhamdulillah\" saat pasar terbakar.\n\nDan tahukah kamu: Alhamdulillah ada 8 huruf, pintu surga pun ada 8. 🤍\n\nTonton sampai habis, kamu akan mengucap Alhamdulillah dengan cara yang berbeda.\n\n💬 Tulis \"Alhamdulillah ala kulli hal\" di komentar\n🔁 Bagikan, semoga jadi pahala jariyah\n\n#Alhamdulillah #DoaHarian #KajianIslam #FaktaIslam #MengenalAlQuran", "tags": "", "draft": false, "yt": "img/ep07_yt.jpg", "reel": "img/ep07_reel.jpg", "ig": "img/ep07_ig.jpg", "video": "https://github.com/oligarchy-pixel/Al-Qur-an/raw/arsip-video/Ep07.mp4", "videoPage": "https://github.com/oligarchy-pixel/Al-Qur-an/blob/arsip-video/Ep07.mp4", "mb": 76}, {"no": 8, "topik": "Rahasia Ar-Rahman", "ar": "الرَّحْمَٰنِ الرَّحِيمِ", "judul": "Ar-Rahman Ar-Rahim Bukan Sekadar \"Pengasih Penyayang\"! Ini Makna Aslinya", "caption": "Kamu pikir Allah hanya Maha Pengasih? Hati-hati… bisa tertipu. 😳\n\nSetelah \"Ar-Rahman Ar-Rahim\", Allah langsung menyebut \"Maliki yaumiddin\", Pemilik hari pembalasan.\nHarap dan takut harus seimbang. 🤍\n\nPlus: 4 kunci supaya ibadahmu sah, diterima, dan tidak gugur.\nTonton sampai habis!\n\n💬 Tulis \"Ya Rahman Ya Rahim\" di komentar\n🔁 Bagikan, semoga jadi pahala jariyah\n\n#ArRahmanArRahim #AlFatihah #KajianIslam #FaktaIslam #MengenalAlQuran", "tags": "", "draft": false, "yt": "img/ep08_yt.jpg", "reel": "img/ep08_reel.jpg", "ig": "img/ep08_ig.jpg", "video": "https://github.com/oligarchy-pixel/Al-Qur-an/raw/arsip-video/Ep08.mp4", "videoPage": "https://github.com/oligarchy-pixel/Al-Qur-an/blob/arsip-video/Ep08.mp4", "mb": 58}, {"no": 9, "topik": "Perbanyaklah Bertaubat", "ar": "التَّوْبَةُ", "judul": "Ayam Sudah Berkokok, Engkau Masih Tidur? | Rahasia Waktu Sahur untuk Bertaubat — Mengenal Al-Qur'an Ep.9", "caption": "Ayam jantan berkokok di waktu sahur… karena ia melihat malaikat.\nLalu kita? Masih terlelap. 😴\n\nAllah memuji orang-orang yang beristighfar di waktu sahur:\nوَبِالْأَسْحَارِ هُمْ يَسْتَغْفِرُونَ (QS. Adz-Dzariyat: 18)\n\nDi episode 9 ini kita bedah:\n🌙 Tahajjud: tak harus ratusan rakaat, dua rakaat pun sudah cukup\n🕰 Kenapa waktu sahur jadi waktu terbaik untuk bertaubat\n🐓 Hadis ayam berkokok (Bukhari 3303 · Muslim 2729)\n🌬 \"Angin sahur\" yang membawa zikir & istighfar (Sufyan ats-Tsauri)\n⚖ Mengaku cinta Allah, tapi mana buktinya?\n📜 Ibadah harus sesuai aturan syarak: mulailah dari dirimu sendiri\n\nSemua sumber kami tunjukkan langsung di layar: kitab, jilid, halaman, dan derajat hadisnya.\n\nMalam ini, coba bangun sebelum Subuh. Dua rakaat. Satu istighfar. Allah sedang memanggil.\n\n💬 Tulis \"أَسْتَغْفِرُ اللَّهَ\" di kolom komentar kalau kamu mau mulai malam ini.\n🔁 Bagikan ke satu orang yang ingin kamu ajak bertaubat bersama.\n🔔 Subscribe & follow @alurziyadahku untuk seri Mengenal Al-Qur'an berikutnya.\n\n#taubat #istighfar #tahajjud #kajianislam #mengenalalquran", "tags": "", "draft": false, "yt": "img/ep09_yt.jpg", "reel": "img/ep09_reel.jpg", "ig": "img/ep09_ig.jpg", "video": "https://github.com/oligarchy-pixel/Al-Qur-an/raw/arsip-video/Ep09.mp4", "videoPage": "https://github.com/oligarchy-pixel/Al-Qur-an/blob/arsip-video/Ep09.mp4", "mb": 64}, {"no": 10, "topik": "Minta Pertolongan", "ar": "إِيَّاكَ نَسْتَعِينُ", "judul": "Semangat Ibadah Cuma di Awal? Ini Penyebabnya | إِيَّاكَ نَسْتَعِينُ — Mengenal Al-Qur'an Ep.10", "caption": "Pernah semangat salat malam 3 hari… lalu berhenti? 😔\nPernah niat khatam Al-Qur'an… tapi cuma sampai juz 2?\n\nBukan karena kamu lemah. Ibadah itu memang sulit dan rumit, dan kita tidak akan sanggup tanpa pertolongan Allah.\n\nإِيَّاكَ نَعْبُدُ وَإِيَّاكَ نَسْتَعِينُ\n\"Hanya kepada-Mu kami menyembah, dan hanya kepada-Mu kami memohon pertolongan.\"\n\nDi video ini:\n📚 Ibadah sah dengan ilmu, dan ilmu didapat dengan doa + belajar yang beradab\n🤲 Mau ibadah diterima? Bertaubat dulu sebelum beribadah\n💧 Amal yang paling dicintai Allah: yang rutin walau sedikit (HR. Bukhari & Muslim)\n🏪 Azan berkumandang: tutup toko, atau terus melayani pembeli?\n🔥 Akan datang masa dunia \"memakan\" iman\n🛤 4 jalan agar istiqamah sampai akhir hayat\n\nPilih yang abadi. Tinggalkan yang fana.\n\n👇 Jujur di komentar: ibadah apa yang paling sulit kamu jaga rutin?\n💬 Atau tulis \"إِيَّاكَ نَسْتَعِينُ\" sebagai doa agar kita semua diberi istiqamah.\n🔁 Kirim ke 1 sahabat yang sedang berjuang menjaga ibadahnya. Bisa jadi ini yang dia butuhkan hari ini.\n🔔 Follow @alurziyadahku. Seri Mengenal Al-Qur'an berlanjut setiap episode.\n\n#istiqamah #alfatihah #kajianislam #nasihatislami #mengenalalquran", "tags": "", "draft": false, "yt": "img/ep10_yt.jpg", "reel": "img/ep10_reel.jpg", "ig": "img/ep10_ig.jpg", "video": "https://github.com/oligarchy-pixel/Al-Qur-an/raw/arsip-video/Ep10.mp4", "videoPage": "https://github.com/oligarchy-pixel/Al-Qur-an/blob/arsip-video/Ep10.mp4", "mb": 66}, {"no": 11, "topik": "Musuh di Dalam Diri", "ar": "النَّفْسُ", "judul": "Musuh Paling Berbahaya Bukan di Luar, Tapi di Dalam Dirimu | Mengenal Al-Qur'an Ep.11", "caption": "Kita sibuk waspada pada orang yang dengki, orang yang membenci, bahkan pada syaitan…\ntapi lupa ada satu musuh yang tinggal di dalam dada kita sendiri. 😔\n\nSyaitan mundur saat dibacakan zikir.\nNafsu? Ia bagian dari dirimu, dan tidak semudah itu diusir.\n\nDi episode 11 ini kita bedah:\n🔥 Kenapa nafsu disebut musuh yang paling sulit dididik & diobati\n🎁 14 nikmat Allah yang sering kita lupakan\n⚔ Melatih nafsu seperti prajurit bersiap perang\n🖐 5 kesulitan orang beriman: pendengki, munafik, kafir, syaitan, dan nafsu\n👁 Mata cinta vs mata benci: kenapa kita buta pada aib sendiri\n⚠ Jebakan setelah taubat: merasa lebih baik dari orang lain\n\nMelawan nafsu adalah jihad yang paling besar.\nإِيَّاكَ نَعْبُدُ وَإِيَّاكَ نَسْتَعِينُ\n\n👇 Jujur di komentar: nafsu apa yang paling sulit kamu lawan?\n🔁 Kirim ke 1 sahabat yang sedang berjuang memperbaiki diri.\n🔔 Follow @alurziyadahku. Seri Mengenal Al-Qur'an berlanjut setiap episode.\n\n#melawannafsu #tazkiyatunnafs #kajianislam #nasihatislami #mengenalalquran", "tags": "", "draft": false, "yt": "img/ep11_yt.jpg", "reel": "img/ep11_reel.jpg", "ig": "img/ep11_ig.jpg", "video": "https://github.com/oligarchy-pixel/Al-Qur-an/raw/arsip-video/Ep11.mp4", "videoPage": "https://github.com/oligarchy-pixel/Al-Qur-an/blob/arsip-video/Ep11.mp4", "mb": 74}, {"no": 12, "topik": "Minta yang Pasti Baik", "ar": "اهْدِنَا الصِّرَاطَ", "judul": "Jangan Asal Minta Rezeki & Jabatan! Ini Doa yang Pasti Baik | اهْدِنَا الصِّرَاطَ الْمُسْتَقِيمَ — Mengenal Al-Qur'an Ep.12", "caption": "Pernah berdoa minta rezeki lancar, jabatan, jodoh, atau anak…\ntapi pernahkah kita bertanya: apakah itu pasti baik untuk kita? 🤔\n\nAllah sendiri mengajarkan permintaan yang paling utama:\nاهْدِنَا الصِّرَاطَ الْمُسْتَقِيمَ\n\"Tunjukilah kami jalan yang lurus.\"\n\nDi episode 12 ini kita bedah:\n🛣 Kenapa jalan yang lurus adalah permintaan nomor satu\n💰 Harta melimpah yang justru membuat lupa Allah\n🗳 Doa minta menang pemilihan, sehat, jodoh & anak: pakai kunci إِنْ كَانَ خَيْرًا لِي\n💧 Ilmu kita setetes dibanding ilmu Allah\n🔢 73 golongan, hanya satu yang di jalan lurus (HR. Abu Dawud, at-Tirmidzi, Ibnu Majah)\n🫀 Doa dari hati yang lalai tidak dikabulkan (HR. at-Tirmidzi)\n🤲 Ibadah dulu, baru berdoa (QS. Al-Baqarah 186)\n\nMintalah yang pasti baik. Yang belum pasti, serahkan dengan syarat: \"jika itu baik untukku\".\n\n👇 Jujur di komentar: doa apa yang paling sering kamu minta selama ini?\n🔁 Kirim ke 1 sahabat yang sedang menunggu doanya dikabulkan.\n🔔 Follow @alurziyadahku. Seri Mengenal Al-Qur'an berlanjut setiap episode.\n\n#adabberdoa #alfatihah #kajianislam #nasihatislami #mengenalalquran", "tags": "", "draft": false, "yt": "img/ep12_yt.jpg", "reel": "img/ep12_reel.jpg", "ig": "img/ep12_ig.jpg", "video": "https://github.com/oligarchy-pixel/Al-Qur-an/raw/arsip-video/Ep12.mp4", "videoPage": "https://github.com/oligarchy-pixel/Al-Qur-an/blob/arsip-video/Ep12.mp4", "mb": 74}, {"no": 13, "topik": "Rahasia Sapi Betina", "ar": "سُورَةُ الْبَقَرَةِ", "judul": "Kisah Sapi Betina Nabi Musa & Keutamaan Surah Al-Baqarah | Arti Alif Lam Mim | Tafsir Al-Baqarah Ayat 1-2", "caption": "Kisah sapi betina Nabi Musa & keutamaan Surah Al-Baqarah 🐄📖\nKenapa surah terpanjang di Al-Qur'an dinamai \"sapi betina\"? Ternyata ada kisah mayat yang hidup kembali dan menyebut pembunuhnya…\n\nDi video ini:\n✅ Keutamaan Surah Al-Baqarah: rumah tidak dimasuki syaitan (HR. at-Tirmidzi 2877)\n✅ Kisah Bani Israil & sapi kuning di zaman Nabi Musa\n✅ Arti Alif Lam Mim menurut ulama\n✅ Tafsir Al-Baqarah ayat 1-2: ذَٰلِكَ الْكِتَابُ لَا رَيْبَ فِيهِ\n✅ Bukti Al-Qur'an dari Allah: tantangan & ramalan Romawi\n\n💬 Tulis \"AAMIIN\" agar rumah kita dijaga Allah\n📌 Simpan & bagikan ke keluarga\n\n#fyp #islam #kajianislam #kisahislami #mengenalalquran", "tags": "surah al baqarah, keutamaan surah al baqarah, kisah sapi betina, kisah nabi musa, arti alif lam mim, tafsir al baqarah ayat 1-2, kajian islam, ngaji online", "draft": false, "yt": "img/ep13_yt.jpg", "reel": "img/ep13_reel.jpg", "ig": "img/ep13_ig.jpg", "video": "https://github.com/oligarchy-pixel/Al-Qur-an/raw/arsip-video/Ep13.mp4", "videoPage": "https://github.com/oligarchy-pixel/Al-Qur-an/blob/arsip-video/Ep13.mp4", "mb": 74}, {"no": 14, "topik": "Petunjuk Takwa Sehari-hari", "ar": "هُدًى لِلْمُتَّقِينَ", "judul": "Hukum Cukur Alis dalam Islam | Adab Makan, Pakaian & Memilih Jodoh Menurut Al-Qur'an | Mengenal Al-Qur'an Ep14", "caption": "Hukum cukur alis, makan berlebihan & memilih jodoh menurut Al-Qur'an 📖✨\nTernyata Al-Qur'an mengatur hidupmu dari piring makan sampai rumah tangga… sudah tahu? 👇\n\n✅ Makan & minum boleh, tapi jangan melampaui batas (QS. Al-A'raf: 31)\n✅ Jilbab = kain yang menutupi seluruh tubuh (QS. Al-Ahzab: 59)\n✅ Berhias boleh, asal tidak mengubah ciptaan Allah (QS. An-Nisa: 119 · HR. Bukhari & Muslim)\n✅ Pilih pasangan: IMAN dulu, baru yang lain (QS. Al-Baqarah: 221)\n✅ Hak suami & istri, dan cara bertahap menghadapi nusyuz (QS. Al-Baqarah: 228 · An-Nisa: 34)\n\nSemoga Allah jadikan kita golongan muttaqin. Ketik AAMIIN 🤲\n💾 Simpan video ini & 📤 bagikan ke pasangan / calon pasanganmu.\n🔔 Follow @alurziyadahku untuk episode berikutnya.\n\n#fyp #islam #kajianislam #dakwahislam #mengenalalquran", "tags": "hukum cukur alis, makan berlebihan dalam islam, adab berpakaian muslimah, memilih jodoh dalam islam, hak suami istri, nusyuz, tafsir al-quran, kajian islam", "draft": false, "yt": "img/ep14_yt.jpg", "reel": "img/ep14_reel.jpg", "ig": "img/ep14_ig.jpg", "video": "https://github.com/oligarchy-pixel/Al-Qur-an/raw/arsip-video/Ep14.mp4", "videoPage": "https://github.com/oligarchy-pixel/Al-Qur-an/blob/arsip-video/Ep14.mp4", "mb": 71}, {"no": 15, "topik": "4 Jenis Perkara Riba", "ar": "وَحَرَّمَ الرِّبَا", "judul": "4 Jenis Perkara Riba dalam Islam & Contohnya | Hukum Khulu' Istri Minta Cerai | Adab Bermasyarakat Menurut Al-Qur'an | Mengenal Al-Qur'an Ep15", "caption": "4 jenis perkara riba dalam Islam & hukum istri minta cerai (khulu') 💸📖\nTukar beras 10 kg dengan 8 kg ternyata termasuk RIBA… sudah tahu? 👇\n\n✅ Istri nusyuz: suami bertahap, nasihat → pisah tidur → isyarat → solusi (QS. An-Nisa: 34)\n✅ Suami bermasalah: istri boleh mengajukan khulu' ke hakim, mahar dikembalikan\n✅ Minta cerai tanpa alasan → haram mencium bau surga (HR. Abu Dawud dari Tsauban)\n✅ Jangan mengolok-olok, buruk sangka & ghibah (QS. Al-Hujurat: 11–12)\n✅ Allah halalkan jual beli, haramkan riba (QS. Al-Baqarah: 275–276)\n✅ 4 jenis perkara riba: fadl, nasa', yad, qardh + contohnya\n\nSemoga Allah jauhkan rezeki kita dari riba. Ketik AAMIIN 🤲\n💾 Simpan video ini & 📤 bagikan ke keluarga dan rekan usaha.\n🔔 Follow @alurziyadahku untuk episode berikutnya.\n\n#fyp #islam #kajianislam #dakwahislam #mengenalalquran", "tags": "jenis perkara riba, jenis jenis riba, riba dalam islam, contoh riba, hukum khulu, istri minta cerai, nusyuz, adab bermasyarakat, kajian islam", "draft": false, "yt": "img/ep15_yt.jpg", "reel": "img/ep15_reel.jpg", "ig": "img/ep15_ig.jpg", "video": "https://github.com/oligarchy-pixel/Al-Qur-an/raw/arsip-video/Ep15.mp4", "videoPage": "https://github.com/oligarchy-pixel/Al-Qur-an/blob/arsip-video/Ep15.mp4", "mb": 76}];
 const $ = id => document.getElementById(id);
 const pad = n => String(n).padStart(2,'0');
 $('grid').innerHTML = EP.map((e,i)=>`<button class="ep" data-i="${i}" aria-label="Episode ${e.no}: ${e.topik}">

diff --git a/kit/covers/cover_ep.html b/kit/covers/cover_ep.html
@@ -19,7 +19,7 @@ body{background:#000;color:#fff;font-family:Inter,sans-serif;overflow:hidden}
 <script>
 const EP = new URLSearchParams(location.search).get('ep') || '3';
 const C = {
- '15': { no: '15', topik: 'وَأَحَلَّ اللَّهُ الْبَيْعَ', ar: 'وَحَرَّمَ الرِّبَا', t1: '4 JENIS', t2: 'RIBA', fs: .9, hook: 'tukar beras 10 kg ↔ 8 kg = <span style="color:#ff6a5c">RIBA</span>?!<br>+ hak istri minta <span style="color:#e9f23a">khulu\'</span>', stamp: 'JAUHI RIBA',
+ '15': { no: '15', topik: 'وَأَحَلَّ اللَّهُ الْبَيْعَ', ar: 'وَحَرَّمَ الرِّبَا', t1: '4 JENIS PERKARA', t2: 'RIBA', fs: .8, hook: 'tukar beras 10 kg ↔ 8 kg = <span style="color:#ff6a5c">RIBA</span>?!<br>+ hak istri minta <span style="color:#e9f23a">khulu\'</span>', stamp: 'JAUHI RIBA',
    tag1: ['22', '/tree'], cards: [['RIBA FADL', 'ada tambahan · beras 10 kg ↔ 8 kg', 'يَزِيدُ', '#e9f23a'], ['RIBA NASA\'', 'menunda pertukaran', 'تَأْجِيلٌ', '#2fae5b'], ['RIBA YAD', 'berpisah sebelum serah terima', 'قَبْلَ الْقَبْضِ', '#ff8a5c'], ['RIBA QARDH', 'hutang yang ada manfaat', 'جَرَّ مَنْفَعَةً', '#ffffff']],
    tag2: ['09', '/flowchart'], bpTitle: 'RUMAH TANGGA & MASYARAKAT', bpCenter: 'هُدًى لِلْمُتَّقِينَ', bpItems: [['istri nusyuz: bertahap', 'فَعِظُوهُنَّ'], ["suami bermasalah: khulu'", 'الْخُلْعُ'], ['jangan mengejek', 'لَا يَسْخَرْ'], ['jauhi ghibah', 'لَا يَغْتَبْ']] },
  '14': { no: '14', topik: 'هُدًى لِلْمُتَّقِينَ', ar: 'هُدًى لِلْمُتَّقِينَ', t1: 'PETUNJUK', t2: 'TAKWA HARIAN', fs: .85, hook: 'cukur alis <span style="color:#ff6a5c">dilaknat</span>?!<br>makan, pakaian, <span style="color:#e9f23a">jodoh &amp; rumah tangga</span>', stamp: 'SECUKUPNYA',

diff --git a/kit/covers/shot_peny15v2.js b/kit/covers/shot_peny15v2.js
@@ -1,0 +1,6 @@
+const {chromium}=require('playwright');
+const E=[['15','4 JENIS PERKARA','RIBA.']];
+(async()=>{const b=await chromium.launch({executablePath:'/opt/pw-browsers/chromium',args:['--allow-file-access-from-files']});
+const p=await b.newPage({viewport:{width:1080,height:1350},deviceScaleFactor:2});
+for(const [e,a,c] of E){await p.goto(`file:///home/claude/covers/seri_latin_peny.html?ep=${e}&l1=${encodeURIComponent(a)}&l2=${encodeURIComponent(c)}`);await p.waitForTimeout(900);await p.screenshot({path:`/home/claude/covers/peny_${e}_v2.png`});}
+await b.close();})();

diff --git a/kit/covers/shot15v2.js b/kit/covers/shot15v2.js
@@ -1,0 +1,6 @@
+const {chromium}=require('playwright');
+(async()=>{const b=await chromium.launch({executablePath:'/opt/pw-browsers/chromium',args:['--allow-file-access-from-files']});
+for(const ep of ['15'])for(const [v,w,h] of [['yt',1920,1080],['reel',1080,1920]]){const p=await b.newPage({viewport:{width:w,height:h}});
+await p.goto(`file:///home/claude/covers/cover_ep.html?ep=${ep}&v=${v}`);await p.waitForTimeout(1200);
+await p.screenshot({path:`/home/claude/covers/ep${ep}_${v}_v2.png`});}
+await b.close();})();
